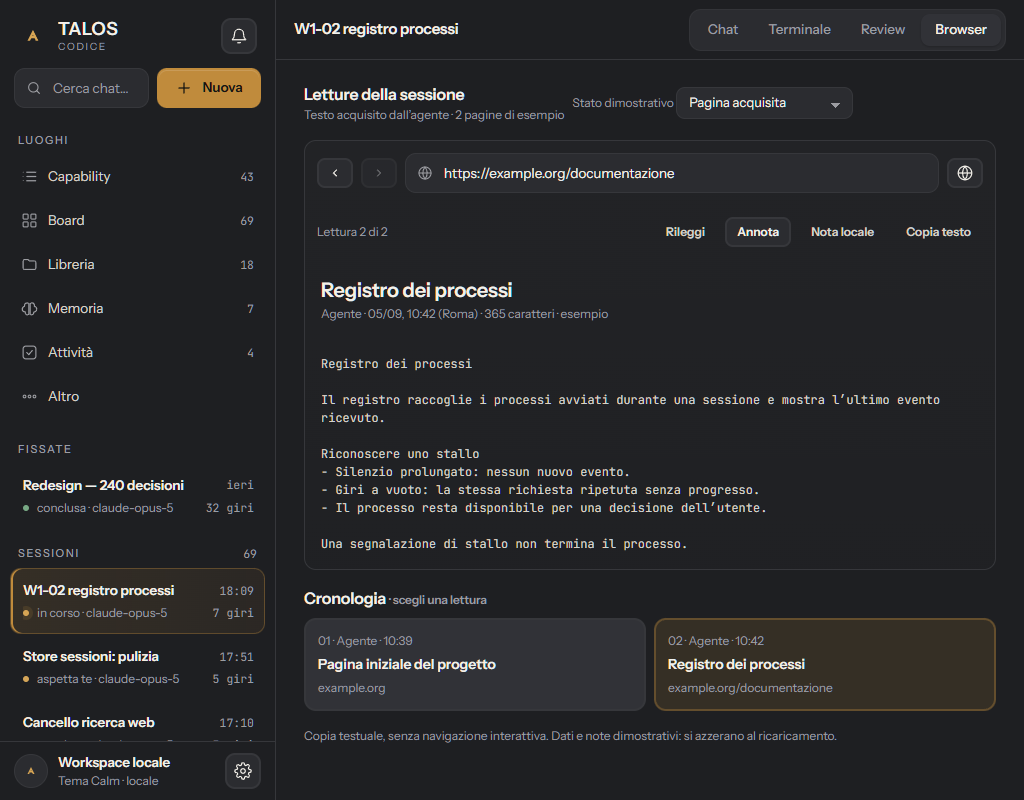
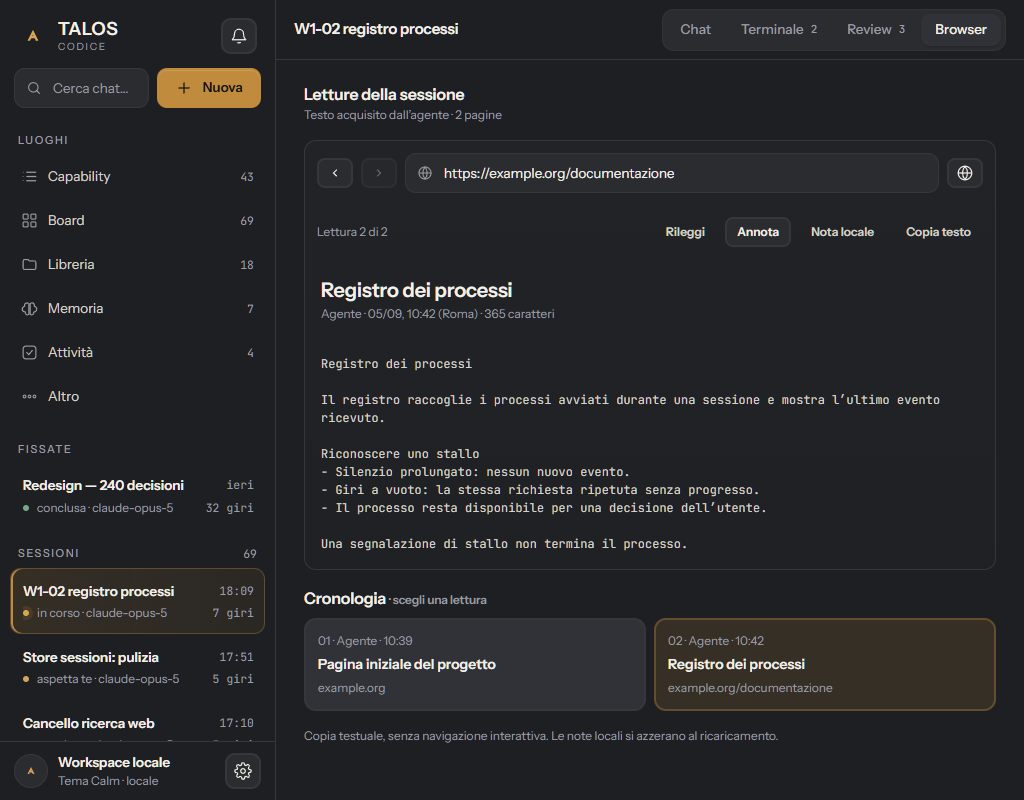
feat(mockup): integra Browser senza controlli di prototipo
Fonti APG Tabs, MDN textContent e Playwright assertions riverificate il 05/09/2026. Conservati permessi, testo non eseguibile, cronologia e contatori. Gate statico verde e screenshot aperti a tre larghezze.

diff --git a/.claude/MOCKUP-REDESIGN-TALOS-2026-09-04.html b/.claude/MOCKUP-REDESIGN-TALOS-2026-09-04.html
@@ -575,6 +575,7 @@ button{background:none; border:0; cursor:pointer; padding:0}
 
 <!-- ===================== REGIA DEL MOCKUP (non è prodotto) ===================== -->
 <div class="talos-regia" data-c="MockupRegia">
+<label class="talos-muted talos-browser__meta">Browser <select class="talos-select talos-select--sm" id="statoBrowser"><option value="pagina">Pagina acquisita</option><option value="vuoto">Nessuna pagina</option><option value="bloccata">Richiesta di permesso</option><option value="caricamento">Caricamento</option></select></label>
   <span class="talos-regia__name">Plancia TALOS</span>
   <span class="talos-regia__note">mockup sul tema Calm · 240 decisioni · ingegneria 04/09</span>
   <span class="talos-grow"></span>
@@ -968,10 +969,9 @@ button{background:none; border:0; cursor:pointer; padding:0}
       </div>
     </section>
 
-<section id="schermoBrowser" class="talos-screen" data-c="BrowserScreen" hidden><div class="talos-topbar" data-c="Topbar"><div class="talos-topbar__title"><h1>W1-02 registro processi</h1></div><span class="talos-grow"></span><div class="talos-tabs" data-c="Tabs"><div class="talos-tabs__list" role="tablist" aria-label="Viste della sessione" data-vistetab><button class="talos-tabs__tab" role="tab" data-vaia="chat" aria-controls="schermoChat" aria-selected="false">Chat</button><button class="talos-tabs__tab" role="tab" data-vaia="terminale" aria-controls="schermoTerminale" aria-selected="false">Terminale</button><button class="talos-tabs__tab" role="tab" data-vaia="review" aria-controls="schermoReview" aria-selected="false">Review</button><button class="talos-tabs__tab" role="tab" data-vaia="browser" aria-controls="schermoBrowser" aria-selected="true">Browser</button></div></div></div>
+<section id="schermoBrowser" class="talos-screen" data-c="BrowserScreen" hidden><div class="talos-topbar" data-c="Topbar"><div class="talos-topbar__title"><h1>W1-02 registro processi</h1></div><span class="talos-grow"></span><div class="talos-tabs" data-c="Tabs"><div class="talos-tabs__list" role="tablist" aria-label="Viste della sessione" data-vistetab><button class="talos-tabs__tab" role="tab" data-vaia="chat" aria-controls="schermoChat" aria-selected="false">Chat</button><button class="talos-tabs__tab" role="tab" data-vaia="terminale" aria-controls="schermoTerminale" aria-selected="false">Terminale <span class="talos-tabs__count">2</span></button><button class="talos-tabs__tab" role="tab" data-vaia="review" aria-controls="schermoReview" aria-selected="false">Review <span class="talos-tabs__count">3</span></button><button class="talos-tabs__tab" role="tab" data-vaia="browser" aria-controls="schermoBrowser" aria-selected="true">Browser</button></div></div></div>
 <div class="talos-page  talos-browser" data-c="Page">
-  <div class="talos-toolbar"><div><h2 class="talos-browser__heading">Letture della sessione</h2><p class="talos-muted talos-browser__meta" id="browserRiepilogo">Testo acquisito dall’agente · 2 pagine di esempio</p></div>
-    <label class="talos-muted talos-browser__meta">Stato dimostrativo <select class="talos-select talos-select--sm" id="statoBrowser"><option value="pagina">Pagina acquisita</option><option value="vuoto">Nessuna pagina</option><option value="bloccata">Richiesta di permesso</option><option value="caricamento">Caricamento</option></select></label>
+  <div class="talos-toolbar"><div><h2 class="talos-browser__heading">Letture della sessione</h2><p class="talos-muted talos-browser__meta" id="browserRiepilogo">Testo acquisito dall’agente · 2 pagine</p></div>
   </div>
   <div class="talos-card talos-browser__space" data-c="BrowserViewport">
     <div class="talos-browser__bar">
@@ -989,19 +989,18 @@ button{background:none; border:0; cursor:pointer; padding:0}
     </div>
     <div id="browserAvviso" class="talos-browser__notice" role="status" hidden></div>
     <div id="browserBloccato" class="talos-browser__request" hidden>
-      <span class="talos-badge talos-badge--sm talos-badge--warning">Richiesta dimostrativa</span><h3 class="talos-browser__heading">Consentire questa lettura?</h3>
+      <span class="talos-badge talos-badge--sm talos-badge--warning">In attesa di te</span><h3 class="talos-browser__heading">Consentire questa lettura?</h3>
       <p class="talos-muted">L’agente chiede di leggere https://example.org/documentazione. La scelta vale per questa richiesta.</p>
       <div class="talos-cluster"><button class="talos-button talos-button--primary talos-button--sm" data-action="consentiBrowser">Consenti una volta</button><button class="talos-button talos-button--secondary talos-button--sm" data-action="negaBrowser">Nega</button></div>
-      <p class="talos-muted talos-browser__meta" id="browserPermessoNota">Simulazione: nessuna richiesta di rete viene eseguita.</p>
+      <p class="talos-muted talos-browser__meta" id="browserPermessoNota">Il permesso vale una sola volta, per questo indirizzo.</p>
     </div>
     <div id="browserCaricamento" class="talos-browser__request" hidden>
-      <h3 class="talos-browser__heading">Lettura in corso…</h3><p class="talos-muted">Simulazione di attesa. L’ultima pagina acquisita resta consultabile.</p>
-      <button class="talos-button talos-button--primary talos-button--sm" data-action="completaBrowser">Completa esempio</button>
+      <h3 class="talos-browser__heading">Lettura in corso…</h3><p class="talos-muted">L’ultima pagina acquisita resta consultabile.</p>
       <button class="talos-button talos-button--secondary talos-button--sm" data-action="annullaBrowser">Annulla navigazione</button>
     </div>
     <div id="browserVuoto" class="talos-empty talos-browser__pad" hidden><svg class="i" aria-hidden="true"><use href="#i-globe"/></svg><h3>Nessuna pagina letta</h3><p class="talos-muted">Le letture dell’agente appariranno qui, con indirizzo e testo acquisito.</p></div>
     <article id="browserPagina" aria-labelledby="browserTitolo">
-      <header class="talos-browser__head"><h2 id="browserTitolo">Registro dei processi</h2><p class="talos-muted talos-browser__meta" id="browserProvenienza">Agente · 05/09, 10:42 (Roma) · 365 caratteri · esempio</p></header>
+      <header class="talos-browser__head"><h2 id="browserTitolo">Registro dei processi</h2><p class="talos-muted talos-browser__meta" id="browserProvenienza">Agente · 05/09, 10:42 (Roma) · 365 caratteri</p></header>
       <pre id="browserTesto" class="talos-browser__text" tabindex="0" aria-label="Testo acquisito della pagina">Registro dei processi
 
 Il registro raccoglie i processi avviati durante una sessione e mostra l’ultimo evento ricevuto.
@@ -1014,7 +1013,7 @@ Riconoscere uno stallo
 Una segnalazione di stallo non termina il processo.</pre>
       <div id="browserEditorNota" class="talos-browser__note" hidden>
         <label class="talos-stack" for="browserNotaInput">Nota su questa lettura<textarea class="talos-field__input" id="browserNotaInput" rows="3" placeholder="Un dubbio, un controllo da fare…" aria-describedby="browserNotaScope"></textarea></label>
-        <div class="talos-cluster"><span id="browserNotaScope" class="talos-muted talos-browser__meta">Solo in questo mockup · si azzera al ricaricamento</span><span class="talos-grow"></span><button class="talos-button talos-button--primary talos-button--sm" data-action="conservaNotaBrowser">Conserva nota</button><button class="talos-button talos-button--ghost talos-button--sm" data-action="chiudiNotaBrowser">Annulla</button></div>
+        <div class="talos-cluster"><span id="browserNotaScope" class="talos-muted talos-browser__meta">Nota non inviata · si azzera al ricaricamento</span><span class="talos-grow"></span><button class="talos-button talos-button--primary talos-button--sm" data-action="conservaNotaBrowser">Conserva nota</button><button class="talos-button talos-button--ghost talos-button--sm" data-action="chiudiNotaBrowser">Annulla</button></div>
       </div>
       <div id="browserNotaSalvata" class="talos-browser__note" role="status" hidden></div>
     </article>
@@ -1026,7 +1025,7 @@ Una segnalazione di stallo non termina il processo.</pre>
       <button class="talos-browser__entry" data-pagina-browser="1" aria-current="page"><span class="talos-muted talos-browser__meta">02 · Agente · 10:42</span><strong>Registro dei processi</strong><span class="talos-muted talos-browser__meta">example.org/documentazione</span></button>
     </div>
   </nav>
-  <p id="browserLimiti" class="talos-muted talos-browser__meta talos-browser__space">Copia testuale, senza navigazione interattiva. Dati e note dimostrativi: si azzerano al ricaricamento.</p>
+  <p id="browserLimiti" class="talos-muted talos-browser__meta talos-browser__space">Copia testuale, senza navigazione interattiva. Le note locali si azzerano al ricaricamento.</p>
 </div></section>
 
 <section id="schermoModelLab" class="talos-screen" data-c="ModelLabScreen" hidden><div class="talos-topbar" data-c="Topbar"><div class="talos-topbar__title"><h1>Model Lab</h1></div><span class="talos-grow"></span><button class="talos-button talos-button--secondary talos-button--sm" data-c="Button" data-apre-velo="veloFornitori">Fornitori e accessi</button></div><div class="talos-page " data-c="Page"><div class="talos-tabs talos-tabs--underline talos-lab__tabs" data-c="Tabs"><div class="talos-tabs__list" role="tablist" aria-label="Schede Model Lab" id="labTabs"><button id="tab-installati" class="talos-tabs__tab" role="tab" aria-selected="true" aria-controls="panel-installati" tabindex="0" data-panel="panel-installati">Installati</button><button id="tab-catalogo" class="talos-tabs__tab" role="tab" aria-selected="false" aria-controls="panel-catalogo" tabindex="-1" data-panel="panel-catalogo">Catalogo</button><button id="tab-hf" class="talos-tabs__tab" role="tab" aria-selected="false" aria-controls="panel-hf" tabindex="-1" data-panel="panel-hf">Hugging Face</button><button id="tab-download" class="talos-tabs__tab" role="tab" aria-selected="false" aria-controls="panel-download" tabindex="-1" data-panel="panel-download">Download ↓ 1</button><button id="tab-runtime" class="talos-tabs__tab" role="tab" aria-selected="false" aria-controls="panel-runtime" tabindex="-1" data-panel="panel-runtime">Runtime</button><button id="tab-prova" class="talos-tabs__tab" role="tab" aria-selected="false" aria-controls="panel-prova" tabindex="-1" data-panel="panel-prova">Prova</button></div></div><p class="talos-page__note" role="status" id="labMessaggio"></p><section role="tabpanel" id="panel-installati" aria-labelledby="tab-installati" ><div class="talos-page__head "><div><h2>Modelli sul computer</h2><p>Carica un modello per usarlo. Il file resta sul disco quando liberi la memoria.</p></div></div>
@@ -1747,12 +1746,12 @@ Una segnalazione di stallo non termina il processo.</pre>
   const vuoto=$('#statoBrowser').value==='vuoto', pagina=pagineBrowserDemo[indiceBrowserDemo];
   $('#browserVuoto').hidden=!vuoto;$('#browserPagina').hidden=vuoto;
   $('#schermoBrowser [data-c="BrowserHistory"]').hidden=vuoto;
-  $('#browserRiepilogo').textContent=vuoto?'Nessuna lettura acquisita · stato di esempio':'Testo acquisito dall’agente · 2 pagine di esempio';
+  $('#browserRiepilogo').textContent=vuoto?'Nessuna lettura acquisita':'Testo acquisito dall’agente · 2 pagine';
   $('#urlBrowser').value=vuoto?'':pagina.url;
   $('#browserPosizione').textContent=vuoto?'0 pagine':'Lettura '+(indiceBrowserDemo+1)+' di '+pagineBrowserDemo.length;
   $('#browserTitolo').textContent=pagina.titolo;
   $('#browserTesto').textContent=pagina.testo;
-  $('#browserProvenienza').textContent=pagina.autore+' · '+new Intl.DateTimeFormat('it-IT',{timeZone:'Europe/Rome',day:'2-digit',month:'2-digit',hour:'2-digit',minute:'2-digit'}).format(new Date(pagina.quando))+' (Roma) · '+pagina.testo.length+' caratteri · esempio';
+  $('#browserProvenienza').textContent=pagina.autore+' · '+new Intl.DateTimeFormat('it-IT',{timeZone:'Europe/Rome',day:'2-digit',month:'2-digit',hour:'2-digit',minute:'2-digit'}).format(new Date(pagina.quando))+' (Roma) · '+pagina.testo.length+' caratteri';
   $$('#schermoBrowser [data-browser-demo]').forEach(b=>{b.disabled=vuoto||(b.dataset.browserDemo==='back'&&indiceBrowserDemo===0)||(b.dataset.browserDemo==='forward'&&indiceBrowserDemo===pagineBrowserDemo.length-1);});
   $$('#schermoBrowser [data-pagina-browser]').forEach(b=>{b.disabled=vuoto;if(!vuoto&&Number(b.dataset.paginaBrowser)===indiceBrowserDemo)b.setAttribute('aria-current','page');else b.removeAttribute('aria-current');});
   const nota=annotazioniBrowserDemo.get(pagina.id)||'';
@@ -1801,9 +1800,8 @@ Una segnalazione di stallo non termina il processo.</pre>
  if(a==='copy')void copiaPaginaBrowser();
  if(a==='open')window.open(pagineBrowserDemo[indiceBrowserDemo].url,'_blank','noopener,noreferrer');
  if(a==='note'){$('#browserEditorNota').hidden=!$('#browserEditorNota').hidden;renderizzaBrowserDemo();if(!$('#browserEditorNota').hidden)$('#browserNotaInput').focus();}
- if(b.dataset.action==='consentiBrowser'){concludiRichiestaBrowser('Permesso simulato. Nessuna navigazione reale.');selezionaPaginaBrowser(1);}
+ if(b.dataset.action==='consentiBrowser'){concludiRichiestaBrowser('Permesso accordato per questa lettura.');selezionaPaginaBrowser(1);}
  if(b.dataset.action==='negaBrowser')concludiRichiestaBrowser('Richiesta negata. Letture precedenti conservate.');
- if(b.dataset.action==='completaBrowser')concludiRichiestaBrowser('Lettura di esempio completata.');
  if(b.dataset.action==='annullaBrowser')concludiRichiestaBrowser('Navigazione annullata. Ultima lettura conservata.');
  if(b.dataset.action==='conservaNotaBrowser')conservaNotaBrowser();
  if(b.dataset.action==='chiudiNotaBrowser'){bozzeBrowserDemo.delete(pagineBrowserDemo[indiceBrowserDemo].id);$('#browserEditorNota').hidden=true;renderizzaBrowserDemo();$('[data-browser-demo="note"]').focus();}

diff --git a/harness-ui/frontend/index.template.html b/harness-ui/frontend/index.template.html
@@ -360,10 +360,9 @@
       </div>
     </section>
 
-<section id="schermoBrowser" class="talos-screen" data-c="BrowserScreen" hidden><div class="talos-topbar" data-c="Topbar"><div class="talos-topbar__title"><h1>W1-02 registro processi</h1></div><span class="talos-grow"></span><div class="talos-tabs" data-c="Tabs"><div class="talos-tabs__list" role="tablist" aria-label="Viste della sessione" data-vistetab><button class="talos-tabs__tab" role="tab" data-vaia="chat" aria-controls="schermoChat" aria-selected="false">Chat</button><button class="talos-tabs__tab" role="tab" data-vaia="terminale" aria-controls="schermoTerminale" aria-selected="false">Terminale</button><button class="talos-tabs__tab" role="tab" data-vaia="review" aria-controls="schermoReview" aria-selected="false">Review</button><button class="talos-tabs__tab" role="tab" data-vaia="browser" aria-controls="schermoBrowser" aria-selected="true">Browser</button></div></div></div>
+<section id="schermoBrowser" class="talos-screen" data-c="BrowserScreen" hidden><div class="talos-topbar" data-c="Topbar"><div class="talos-topbar__title"><h1>W1-02 registro processi</h1></div><span class="talos-grow"></span><div class="talos-tabs" data-c="Tabs"><div class="talos-tabs__list" role="tablist" aria-label="Viste della sessione" data-vistetab><button class="talos-tabs__tab" role="tab" data-vaia="chat" aria-controls="schermoChat" aria-selected="false">Chat</button><button class="talos-tabs__tab" role="tab" data-vaia="terminale" aria-controls="schermoTerminale" aria-selected="false">Terminale <span class="talos-tabs__count">2</span></button><button class="talos-tabs__tab" role="tab" data-vaia="review" aria-controls="schermoReview" aria-selected="false">Review <span class="talos-tabs__count">3</span></button><button class="talos-tabs__tab" role="tab" data-vaia="browser" aria-controls="schermoBrowser" aria-selected="true">Browser</button></div></div></div>
 <div class="talos-page  talos-browser" data-c="Page">
-  <div class="talos-toolbar"><div><h2 class="talos-browser__heading">Letture della sessione</h2><p class="talos-muted talos-browser__meta" id="browserRiepilogo">Testo acquisito dall’agente · 2 pagine di esempio</p></div>
-    <label class="talos-muted talos-browser__meta">Stato dimostrativo <select class="talos-select talos-select--sm" id="statoBrowser"><option value="pagina">Pagina acquisita</option><option value="vuoto">Nessuna pagina</option><option value="bloccata">Richiesta di permesso</option><option value="caricamento">Caricamento</option></select></label>
+  <div class="talos-toolbar"><div><h2 class="talos-browser__heading">Letture della sessione</h2><p class="talos-muted talos-browser__meta" id="browserRiepilogo">Testo acquisito dall’agente · 2 pagine</p></div>
   </div>
   <div class="talos-card talos-browser__space" data-c="BrowserViewport">
     <div class="talos-browser__bar">
@@ -381,19 +380,18 @@
     </div>
     <div id="browserAvviso" class="talos-browser__notice" role="status" hidden></div>
     <div id="browserBloccato" class="talos-browser__request" hidden>
-      <span class="talos-badge talos-badge--sm talos-badge--warning">Richiesta dimostrativa</span><h3 class="talos-browser__heading">Consentire questa lettura?</h3>
+      <span class="talos-badge talos-badge--sm talos-badge--warning">In attesa di te</span><h3 class="talos-browser__heading">Consentire questa lettura?</h3>
       <p class="talos-muted">L’agente chiede di leggere https://example.org/documentazione. La scelta vale per questa richiesta.</p>
       <div class="talos-cluster"><button class="talos-button talos-button--primary talos-button--sm" data-action="consentiBrowser">Consenti una volta</button><button class="talos-button talos-button--secondary talos-button--sm" data-action="negaBrowser">Nega</button></div>
-      <p class="talos-muted talos-browser__meta" id="browserPermessoNota">Simulazione: nessuna richiesta di rete viene eseguita.</p>
+      <p class="talos-muted talos-browser__meta" id="browserPermessoNota">Il permesso vale una sola volta, per questo indirizzo.</p>
     </div>
     <div id="browserCaricamento" class="talos-browser__request" hidden>
-      <h3 class="talos-browser__heading">Lettura in corso…</h3><p class="talos-muted">Simulazione di attesa. L’ultima pagina acquisita resta consultabile.</p>
-      <button class="talos-button talos-button--primary talos-button--sm" data-action="completaBrowser">Completa esempio</button>
+      <h3 class="talos-browser__heading">Lettura in corso…</h3><p class="talos-muted">L’ultima pagina acquisita resta consultabile.</p>
       <button class="talos-button talos-button--secondary talos-button--sm" data-action="annullaBrowser">Annulla navigazione</button>
     </div>
     <div id="browserVuoto" class="talos-empty talos-browser__pad" hidden><svg class="i" aria-hidden="true"><use href="#i-globe"/></svg><h3>Nessuna pagina letta</h3><p class="talos-muted">Le letture dell’agente appariranno qui, con indirizzo e testo acquisito.</p></div>
     <article id="browserPagina" aria-labelledby="browserTitolo">
-      <header class="talos-browser__head"><h2 id="browserTitolo">Registro dei processi</h2><p class="talos-muted talos-browser__meta" id="browserProvenienza">Agente · 05/09, 10:42 (Roma) · 365 caratteri · esempio</p></header>
+      <header class="talos-browser__head"><h2 id="browserTitolo">Registro dei processi</h2><p class="talos-muted talos-browser__meta" id="browserProvenienza">Agente · 05/09, 10:42 (Roma) · 365 caratteri</p></header>
       <pre id="browserTesto" class="talos-browser__text" tabindex="0" aria-label="Testo acquisito della pagina">Registro dei processi
 
 Il registro raccoglie i processi avviati durante una sessione e mostra l’ultimo evento ricevuto.
@@ -406,7 +404,7 @@ Riconoscere uno stallo
 Una segnalazione di stallo non termina il processo.</pre>
       <div id="browserEditorNota" class="talos-browser__note" hidden>
         <label class="talos-stack" for="browserNotaInput">Nota su questa lettura<textarea class="talos-field__input" id="browserNotaInput" rows="3" placeholder="Un dubbio, un controllo da fare…" aria-describedby="browserNotaScope"></textarea></label>
-        <div class="talos-cluster"><span id="browserNotaScope" class="talos-muted talos-browser__meta">Solo in questo mockup · si azzera al ricaricamento</span><span class="talos-grow"></span><button class="talos-button talos-button--primary talos-button--sm" data-action="conservaNotaBrowser">Conserva nota</button><button class="talos-button talos-button--ghost talos-button--sm" data-action="chiudiNotaBrowser">Annulla</button></div>
+        <div class="talos-cluster"><span id="browserNotaScope" class="talos-muted talos-browser__meta">Nota non inviata · si azzera al ricaricamento</span><span class="talos-grow"></span><button class="talos-button talos-button--primary talos-button--sm" data-action="conservaNotaBrowser">Conserva nota</button><button class="talos-button talos-button--ghost talos-button--sm" data-action="chiudiNotaBrowser">Annulla</button></div>
       </div>
       <div id="browserNotaSalvata" class="talos-browser__note" role="status" hidden></div>
     </article>
@@ -418,7 +416,7 @@ Una segnalazione di stallo non termina il processo.</pre>
       <button class="talos-browser__entry" data-pagina-browser="1" aria-current="page"><span class="talos-muted talos-browser__meta">02 · Agente · 10:42</span><strong>Registro dei processi</strong><span class="talos-muted talos-browser__meta">example.org/documentazione</span></button>
     </div>
   </nav>
-  <p id="browserLimiti" class="talos-muted talos-browser__meta talos-browser__space">Copia testuale, senza navigazione interattiva. Dati e note dimostrativi: si azzerano al ricaricamento.</p>
+  <p id="browserLimiti" class="talos-muted talos-browser__meta talos-browser__space">Copia testuale, senza navigazione interattiva. Le note locali si azzerano al ricaricamento.</p>
 </div></section>
 
 <section id="schermoModelLab" class="talos-screen" data-c="ModelLabScreen" hidden><div class="talos-topbar" data-c="Topbar"><div class="talos-topbar__title"><h1>Model Lab</h1></div><span class="talos-grow"></span><button class="talos-button talos-button--secondary talos-button--sm" data-c="Button" data-apre-velo="veloFornitori">Fornitori e accessi</button></div><div class="talos-page " data-c="Page"><div class="talos-tabs talos-tabs--underline talos-lab__tabs" data-c="Tabs"><div class="talos-tabs__list" role="tablist" aria-label="Schede Model Lab" id="labTabs"><button id="tab-installati" class="talos-tabs__tab" role="tab" aria-selected="true" aria-controls="panel-installati" tabindex="0" data-panel="panel-installati">Installati</button><button id="tab-catalogo" class="talos-tabs__tab" role="tab" aria-selected="false" aria-controls="panel-catalogo" tabindex="-1" data-panel="panel-catalogo">Catalogo</button><button id="tab-hf" class="talos-tabs__tab" role="tab" aria-selected="false" aria-controls="panel-hf" tabindex="-1" data-panel="panel-hf">Hugging Face</button><button id="tab-download" class="talos-tabs__tab" role="tab" aria-selected="false" aria-controls="panel-download" tabindex="-1" data-panel="panel-download">Download ↓ 1</button><button id="tab-runtime" class="talos-tabs__tab" role="tab" aria-selected="false" aria-controls="panel-runtime" tabindex="-1" data-panel="panel-runtime">Runtime</button><button id="tab-prova" class="talos-tabs__tab" role="tab" aria-selected="false" aria-controls="panel-prova" tabindex="-1" data-panel="panel-prova">Prova</button></div></div><p class="talos-page__note" role="status" id="labMessaggio"></p><section role="tabpanel" id="panel-installati" aria-labelledby="tab-installati" ><div class="talos-page__head "><div><h2>Modelli sul computer</h2><p>Carica un modello per usarlo. Il file resta sul disco quando liberi la memoria.</p></div></div>

diff --git a/.claude/LEDGER-ASTRA-SCHERMATE-MANCANTI-2026-09-05.md b/.claude/LEDGER-ASTRA-SCHERMATE-MANCANTI-2026-09-05.md
@@ -107,3 +107,13 @@ Beneficio verificato: schede a circa 100 px dall'alto e filtri a circa 230 px; o
 RED fornitori: 3/3, quattro opzioni anziché sette. GREEN dopo rigenerazione e build: test:lab 108/108. Prima esecuzione statica sul dist vecchio: 4 rossi, risolti rigenerando la build, nessuna soglia modificata. Originale: 9/9 test di cattura. Resta B6: API reali, catalogo e fornitori dinamici, importazione/download, runtime, chiavi nel portachiavi, prova streaming reale. Nel mockup gli stati sono fixture della regia; nessun servizio o file modello viene modificato.
 
 Conferma finale A3: anche npx playwright test --config=playwright.lab.config.mjs 108/108 (49,2 s). Gate invariati.
+
+## A1 — Browser nel mockup unico, 05/09/2026
+Fonti fresche prima dell'edit: https://www.w3.org/WAI/ARIA/apg/patterns/tabs/ (viste di sessione/tastiera), https://developer.mozilla.org/en-US/docs/Web/API/Node/textContent (testo acquisito non eseguito). Adatto pattern già usato; conservo il renderer testuale e il test della pagina ostile. Decisioni H22, H28-H30 e reindirizzamento §3: controllo stato fuori dal prodotto, solo nella regia; contatori Terminale 2/Review 3 preservati.
+File: .claude/MOCKUP-REDESIGN-TALOS-2026-09-04.html; harness-ui/frontend/tests/parity/parita.spec.mjs; harness-ui/frontend/index.template.html; harness-ui/frontend/src/styles/index.css dal generatore; questo ledger; .claude/CONSEGNA-ASTRA-SCHERMATE-MANCANTI-2026-09-05.md; browser-1440.png/browser-1280.png/browser-1024.png; originale-browser-1440.png/originale-browser-1280.png/originale-browser-1024.png in .claude/immagini/astra-mockup/.
+Simboli: renderizzaBrowserDemo, cambiaStatoBrowser, concludiRichiestaBrowser; ID statoBrowser compatibile ma spostato nella regia. Nessun nuovo CSS/token/blocco. RED ASTRA Browser senza controlli di prototipo: lo stato non deve stare nello schermo; test navigazione/permessi esistente deve restare verde. Verifica: generazione, build, test:lab, Playwright diretto, screenshot aperti. Ritorno: revert del commit A1. Backend B da collegare all'originale; nessuna lettura remota inventata.
+
+Verifica screenshot originale: prime tre catture inutilizzabili perché prese durante l’uscita animata di commandDialog. Fonte Playwright assertions riverificata 05/09 https://playwright.dev/docs/test-assertions: attendo lo stato hidden del dialogo prima della cattura. Nessuna attesa temporale arbitraria e nessuna modifica al prodotto originale.
+La chiusura originale anima dialogo e harnessDialogBackdrop separatamente: la cattura attende ora entrambi hidden.
+
+Consuntivo A1: test:lab 111/111; npx con originale 4179 123/123; verifica mirata dopo attesa backdrop 12/12. Aperte le tre Browser nuove, le tre originali (stato nessuna pagina, nessuna sessione sullo store isolato), e riferimento veloNuova già aperto. Testo acquisito/cronologia/annotazione/copia restano nello schermo; nessun controllo di stato o completamento artificiale nel prodotto. Il test di markup ostile prova che il testo non diventa HTML. Blocchi riusati BrowserViewport, BrowserHistory, Topbar, Tabs, Field, Card, Button; nuovi zero in questo riallineamento, token zero. Dati reali sessione da innestare nella parte B.

diff --git a/.claude/CONSEGNA-ASTRA-SCHERMATE-MANCANTI-2026-09-05.md b/.claude/CONSEGNA-ASTRA-SCHERMATE-MANCANTI-2026-09-05.md
@@ -52,3 +52,7 @@ Copertura ripristinata: import .gguf, quattro ordinamenti HF, autore/tag, altri 
 Cosa deve fare l'owner: valutare gli screenshot alla consegna della parte A. Cosa fa Astra dopo: Browser, Toast, albero e dialoghi. Cosa rimane: parte A restante e tutti i collegamenti della parte B.
 
 Verifica finale A3: build 30 asset; test:lab 108/108; Playwright diretto 108/108; confronto originale 9/9.
+
+### Browser — riallineamento A1, 05/09/2026
+Nessun selettore di stati nella schermata. Cronologia, autore/orario, lettura testuale, permessi e annotazione conservati; Terminale 2 e Review 3 in testata. Screenshot browser-1440/1280/1024 e originale-browser-1440/1280/1024 aperti. Gate 111/111, poi 123/123 includendo originale; 12/12 dopo correzione della sola attesa nelle catture. Resta l'innesto dei dati reali.
+Cosa deve fare l'owner: valutare alla consegna A. Cosa fa Astra dopo: Toast e campanella. Cosa rimane: albero, dieci dialoghi e parte B.
